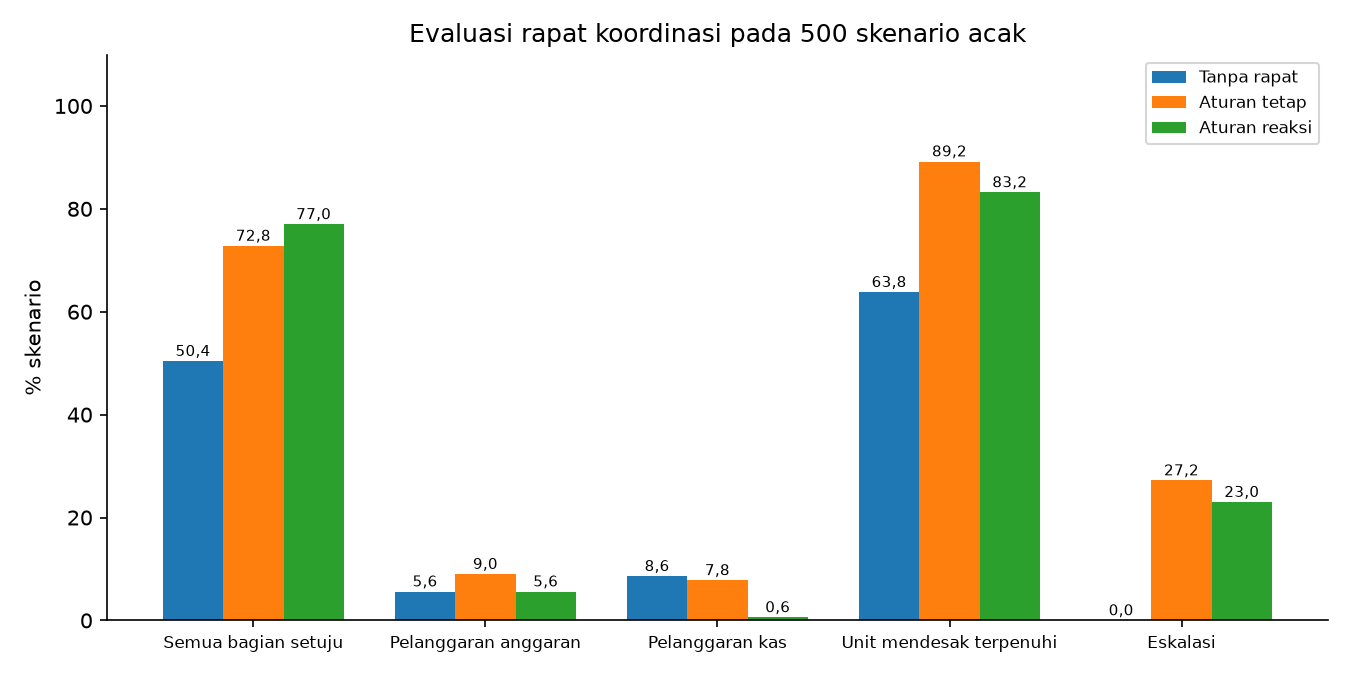
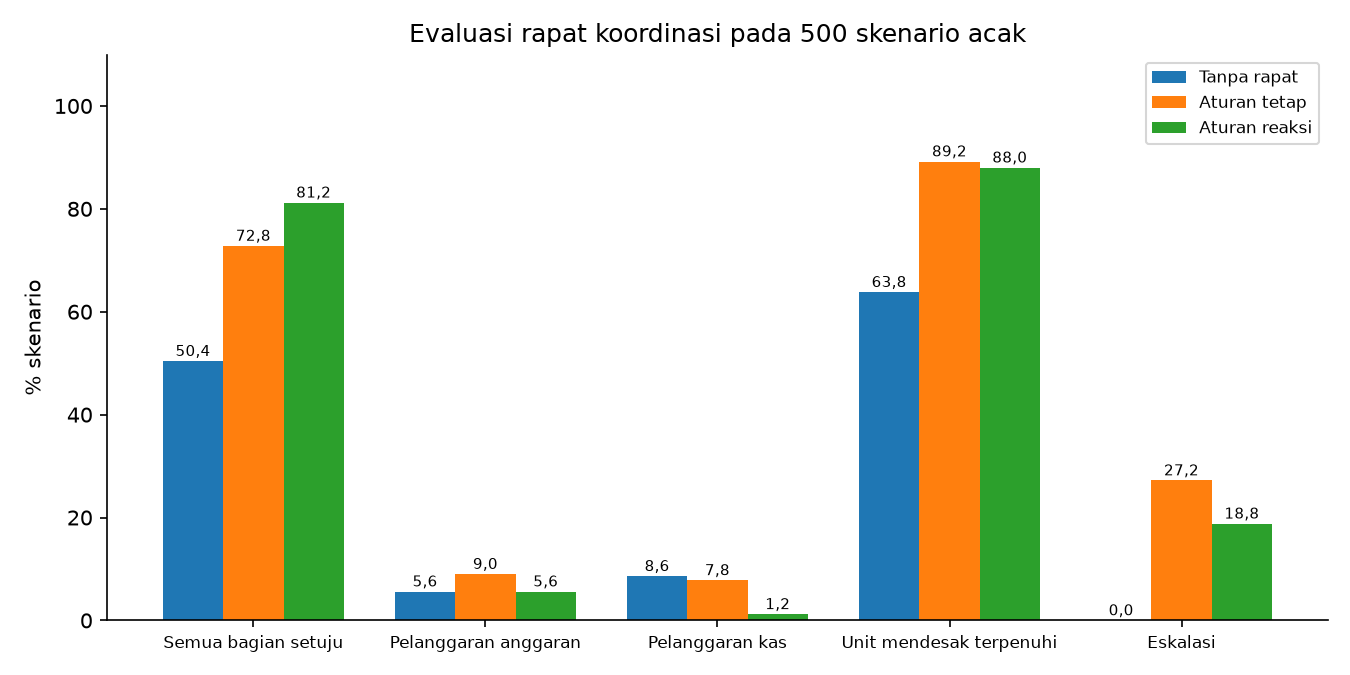
chore: hasil evaluasi setelah aturan unit mendesak lebih berat

diff --git a/runs/evaluasi_rapat.md b/runs/evaluasi_rapat.md
@@ -2,16 +2,16 @@
 
 | Metrik | Tanpa rapat | Aturan tetap | Aturan reaksi |
 |---|---|---|---|
-| Semua bagian setuju (%) | 50,4 | 72,8 | 77,0 |
+| Semua bagian setuju (%) | 50,4 | 72,8 | 81,2 |
 | Pelanggaran anggaran (%) | 5,6 | 9,0 | 5,6 |
-| Pelanggaran kas (%) | 8,6 | 7,8 | 0,6 |
-| Unit mendesak terpenuhi (%) | 63,8 | 89,2 | 83,2 |
-| Biaya rata-rata (juta Rp) | 88,94 | 100,90 | 97,18 |
-| Rata-rata jumlah rapat | 0,00 | 1,78 | 1,62 |
-| Eskalasi (%) | 0,0 | 27,2 | 23,0 |
+| Pelanggaran kas (%) | 8,6 | 7,8 | 1,2 |
+| Unit mendesak terpenuhi (%) | 63,8 | 89,2 | 88,0 |
+| Biaya rata-rata (juta Rp) | 88,94 | 100,90 | 99,05 |
+| Rata-rata jumlah rapat | 0,00 | 1,78 | 1,70 |
+| Eskalasi (%) | 0,0 | 27,2 | 18,8 |
 
 Catatan:
-- Biaya rata-rata dihitung dari rencana akhir yang semua batch-nya punya pemasok: Tanpa rapat n = 319, Aturan tetap n = 446, Aturan reaksi n = 416. Karena n berbeda, biaya rata-rata antar kondisi tidak dihitung pada skenario yang sama.
+- Biaya rata-rata dihitung dari rencana akhir yang semua batch-nya punya pemasok: Tanpa rapat n = 319, Aturan tetap n = 446, Aturan reaksi n = 440. Karena n berbeda, biaya rata-rata antar kondisi tidak dihitung pada skenario yang sama.
 - Skenario yang terbukti tidak mungkin menurut `cash_diagnosis` (kas sepanjang horizon kurang dari tagihan termurah yang mungkin): 0 dari 500. Eskalasi pada skenario itu: Tanpa rapat 0, Aturan tetap 0, Aturan reaksi 0.
 - Skenario tanpa pemasok yang lolos skor, cukup cepat, dan sanggup memasok semua unit mendesak sekaligus: 54 dari 500 (beli bertahap tidak mengubah jumlah unit mendesak, jadi unit mendesak skenario ini tidak bisa dipenuhi oleh aturan mana pun).
 - Dibuat dengan `python scripts/evaluasi_rapat.py`; lihat `evaluasi_rapat.meta.json`.
